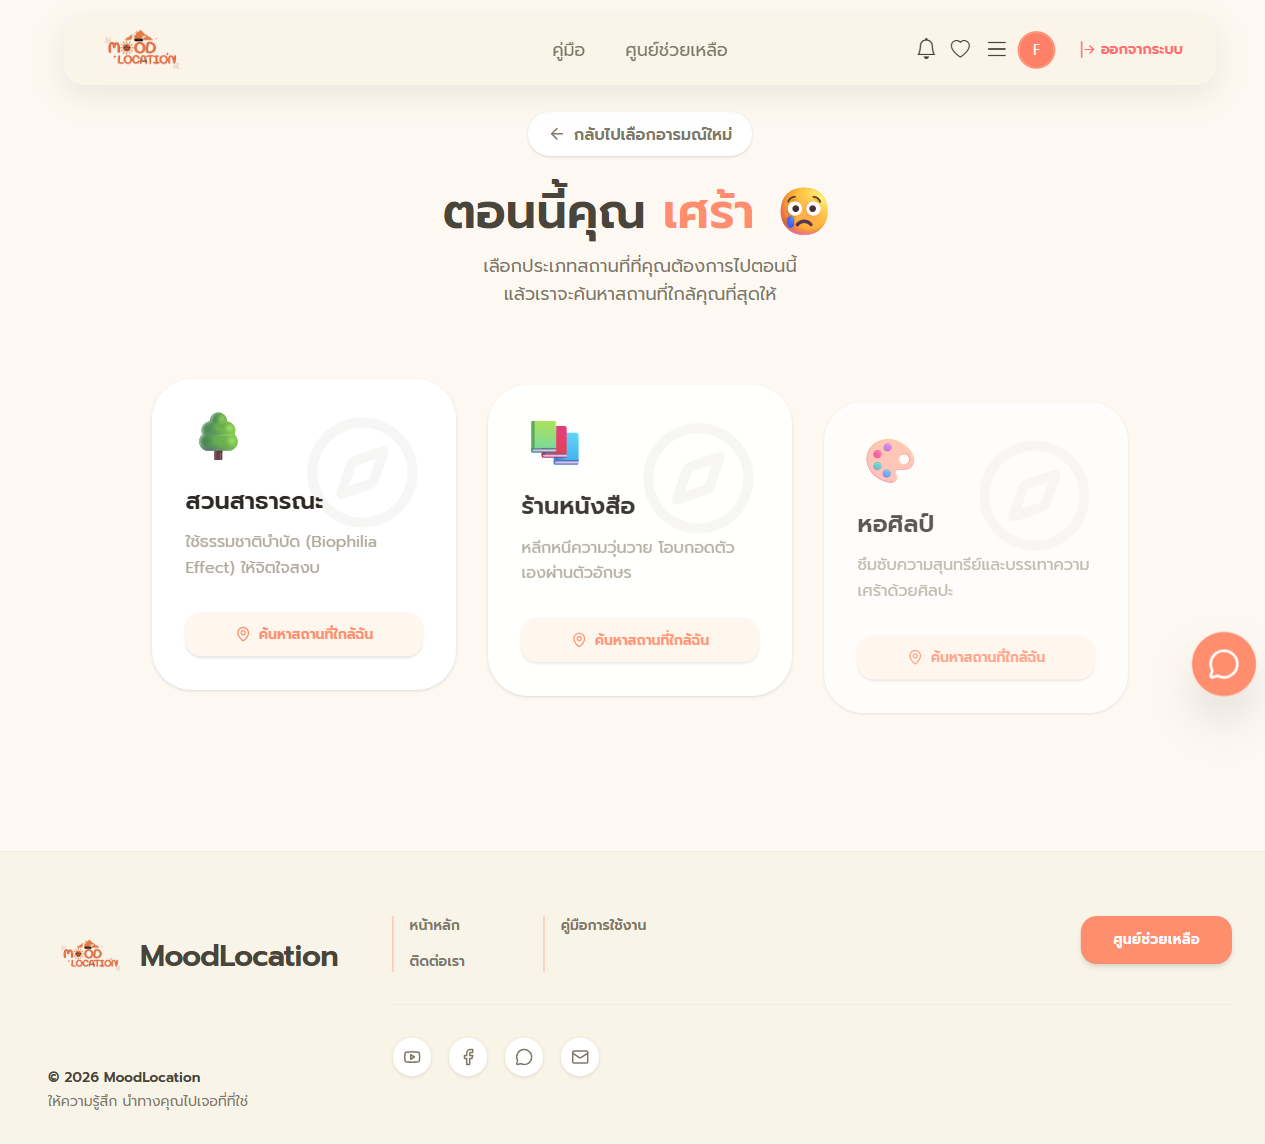
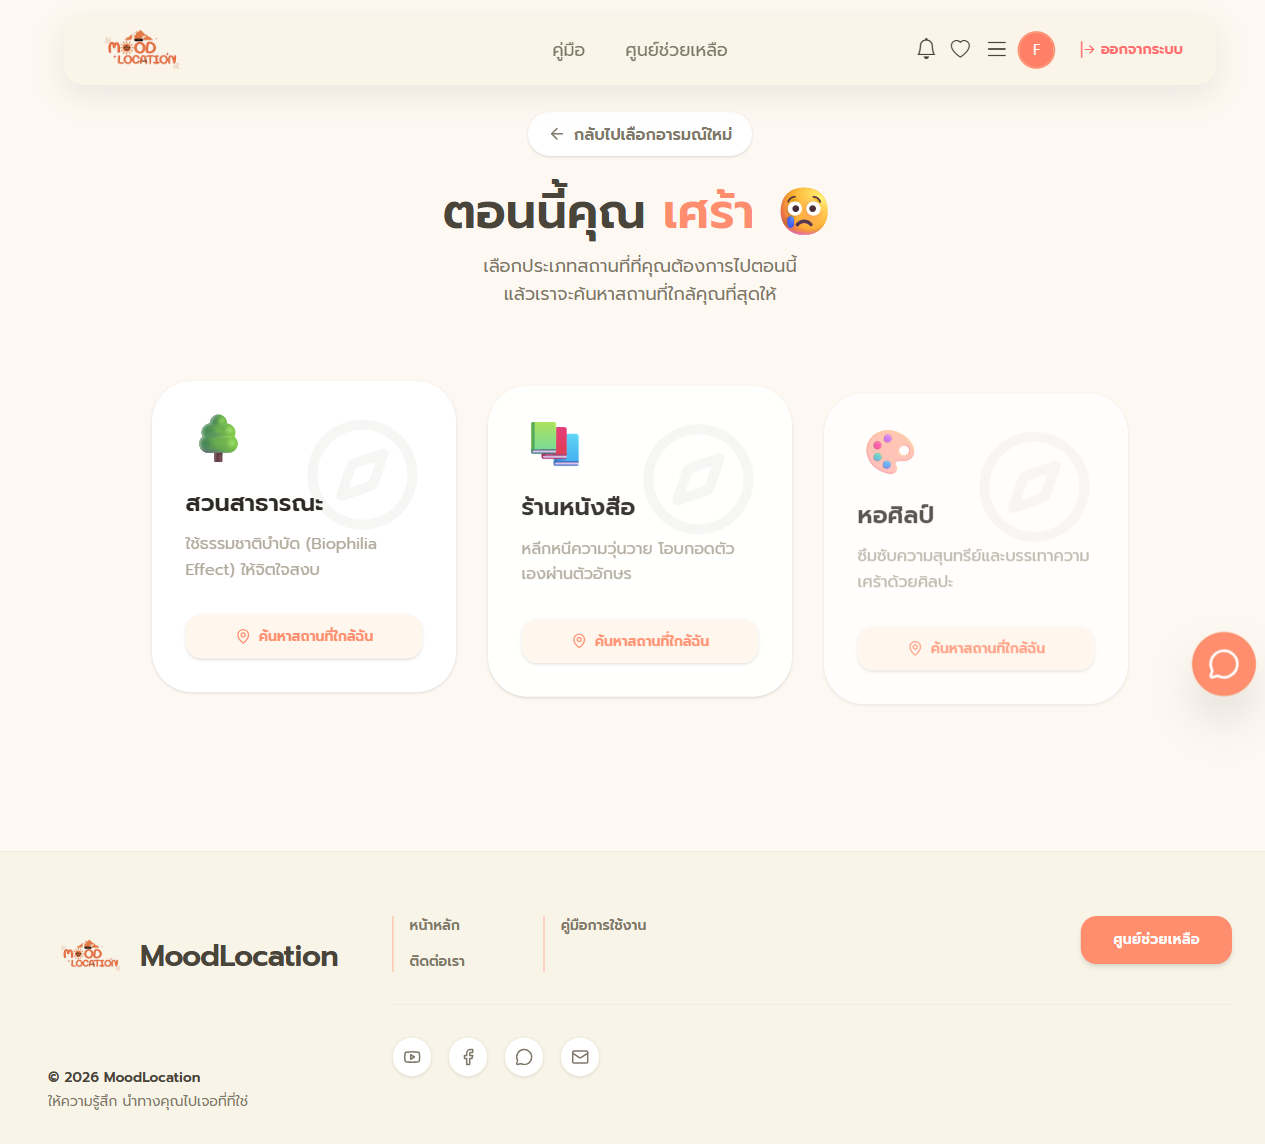
testTC2andTC6

diff --git a/src/tests/TC_6_0_002_NavigationClickSuccess.spec.js b/src/tests/TC_6_0_002_NavigationClickSuccess.spec.js
@@ -1,0 +1,70 @@
+require('../Hooks/testResultHook');
+const { test, expect } = require('@playwright/test');
+
+test('TC 6.0.002 - เริ่มการนำทางไปยังสถานที่สำเร็จ', async ({ browser }) => {
+  const context = await browser.newContext({
+    permissions: ['geolocation'],
+    geolocation: { latitude: 13.7563, longitude: 100.5018 },
+  });
+
+  const page = await context.newPage();
+
+  await page.goto('https://moodlocation.vercel.app/login');
+
+  await page.getByPlaceholder('[email redacted]').fill('[email redacted]');
+  await page.locator('input[type="password"]').fill('111111');
+  await page.click('button[type="submit"]');
+
+  await page.waitForLoadState('networkidle');
+
+  const emotionBtn = page.locator('button')
+    .filter({ hasText: 'เศร้า' })
+    .filter({ visible: true })
+    .first();
+
+  await emotionBtn.waitFor({ state: 'visible' });
+  await emotionBtn.click();
+
+  const categoryBtn = page.getByRole('heading', { name: 'สวนสาธารณะ' });
+
+  await categoryBtn.waitFor({ state: 'visible', timeout: 15000 });
+  await categoryBtn.click();
+
+  const viewButton = page.getByRole('button', { name: 'ดูรูปภาพและรีวิว' }).first();
+
+ await viewButton.waitFor({ state: 'visible', timeout: 20000 });
+await viewButton.click();
+
+// รอให้ชื่อสถานที่โหลดเสร็จ
+await expect(page.locator('main h1')).not.toHaveText('กำลังโหลดข้อมูลร้าน...');
+
+// เก็บชื่อสถานที่
+const placeName = (
+  await page.locator('main h1').textContent()
+)?.trim();
+
+// กดปุ่มนำทางและรอแท็บใหม่
+const navigationButton = page.getByRole('button', {
+  name: 'เริ่มการนำทางไปที่นี่'
+});
+
+const [mapsPage] = await Promise.all([
+  context.waitForEvent('page'),
+  navigationButton.click()
+]);
+
+await mapsPage.waitForLoadState();
+
+// ตรวจสอบว่าเปิด Google Maps
+await expect(mapsPage).toHaveURL(/google\.[^/]+\/maps|maps/i);
+
+// ตรวจสอบว่าชื่อสถานที่ตรงกับหน้าเว็บ
+await expect(mapsPage).toHaveTitle(new RegExp(placeName, 'i'));
+
+  await mapsPage.screenshot({
+    path: 'evidence/TC_6_0_002_NavigationSuccess.png',
+    fullPage: true
+  });
+
+  await context.close();
+});

diff --git a/src/tests/TC_6_0_001_PlaceDetail.spec.js b/src/tests/TC_6_0_001_PlaceDetail.spec.js
@@ -1,24 +1,54 @@
 require('../Hooks/testResultHook');
 const { test, expect } = require('@playwright/test');
 
-test('TC 6.0.001 - การแสดงรายละเอียดสถานที่สำเร็จ', async ({ page }) => {
+test('TC 6.0.001 - ดูรายละเอียดสถานที่สำเร็จ', async ({ browser }) => {
+  const context = await browser.newContext({
+    permissions: ['geolocation'],
+    geolocation: { latitude: 13.7563, longitude: 100.5018 },
+  });
+
+  const page = await context.newPage();
+
   await page.goto('https://moodlocation.vercel.app/login');
+
   await page.getByPlaceholder('[email redacted]').fill('[email redacted]');
   await page.locator('input[type="password"]').fill('111111');
   await page.click('button[type="submit"]');
+
+  // รอข้อมูลโหลดเสร็จก่อนเริ่มทดสอบ
   await page.waitForLoadState('networkidle');
 
-  // 1. เลือกอารมณ์และหมวดหมู่เพื่อให้เจอรายการสถานที่
-  await page.locator('button').filter({ hasText: 'มีความสุข' }).filter({ visible: true }).first().click();
-  await page.locator('button').filter({ hasText: /เที่ยว|สวน/ }).filter({ visible: true }).first().click();
+  const emotionBtn = page.locator('button')
+    .filter({ hasText: 'เศร้า' })
+    .filter({ visible: true })
+    .first();
 
-  // 2. เลือกสถานที่ (เช่น วัดพระแก้ว ตามที่ระบุใน PDF)
-  const placeCard = page.locator('div, h2').filter({ hasText: 'วัดพระแก้ว' }).first();
-  await placeCard.click();
+  await emotionBtn.waitFor({ state: 'visible' });
+  await emotionBtn.click();
 
-  // 3. ตรวจสอบว่าแสดงรายละเอียด (รูปภาพ, ข้อมูล, รีวิว)
-  await expect(page.locator('body')).toContainText(/รายละเอียด|รีวิว/);
-  
-  // 4. ถ่ายรูปหลักฐาน
-  await page.screenshot({ path: 'evidence/TC_6_0_001_PlaceDetail.png', fullPage: true });
+  const categoryBtn = page.getByRole('heading', { name: 'สวนสาธารณะ' });
+
+  await categoryBtn.waitFor({ state: 'visible', timeout: 15000 });
+  await categoryBtn.click();
+
+  const viewButton = page.getByRole('button', { name: 'ดูรูปภาพและรีวิว' }).first();
+
+  await viewButton.waitFor({ state: 'visible', timeout: 20000 });
+  await viewButton.click();
+
+  // ตรวจสอบว่าเข้าสู่หน้ารายละเอียดสถานที่สำเร็จ
+  const navigationBtn = page.getByRole('button', { name: 'นำทาง' });
+
+  await expect(navigationBtn).toBeVisible({ timeout: 15000 });
+
+  await page.evaluate(() => {
+    window.scrollTo(0, 0);
+  });
+
+  await page.screenshot({
+    path: 'evidence/TC_6_0_001_ViewPlaceDetail.png',
+    fullPage: true
+  });
+
+  await context.close();
 });

diff --git a/src/tests/TC_2_0_004_EmptyEmail.spec.js b/src/tests/TC_2_0_004_EmptyEmail.spec.js
@@ -1,0 +1,19 @@
+require('../Hooks/testResultHook');
+const { test, expect } = require('@playwright/test');
+
+test('TC 2.0.004 - เข้าสู่ระบบไม่สำเร็จเนื่องจากไม่กรอกอีเมล', async ({ page }) => {
+  await page.goto('https://moodlocation.vercel.app/login');
+  await page.locator('input[type="password"]').fill('111111');
+  await page.click('button[type="submit"]');
+
+const emailInput = page.getByPlaceholder('[email redacted]');
+
+await expect(emailInput).toBeVisible();
+await expect(page.getByText('กรุณากรอกอีเมล')).toBeVisible();
+  
+
+  await page.screenshot({
+  path: 'evidence/TC_2_0_004_EmptyEmail.png',
+  fullPage: true
+});
+});

diff --git a/src/tests/TC_2_0_005_EmptyPassword.spec.js b/src/tests/TC_2_0_005_EmptyPassword.spec.js
@@ -1,0 +1,19 @@
+require('../Hooks/testResultHook');
+const { test, expect } = require('@playwright/test');
+
+test('TC 2.0.005 - เข้าสู่ระบบไม่สำเร็จเนื่องจากไม่กรอกรหัสผ่าน', async ({ page }) => {
+  await page.goto('https://moodlocation.vercel.app/login');
+ await page.getByPlaceholder('[email redacted]').fill('[email redacted]');
+  await page.click('button[type="submit"]');
+
+const emailInput = page.getByPlaceholder('[email redacted]');
+
+await expect(emailInput).toBeVisible();
+await expect(page.getByText('กรุณากรอกรหัสผ่าน')).toBeVisible();
+  
+
+  await page.screenshot({
+  path: 'evidence/TC_2_0_005_EmptyPassword.png',
+  fullPage: true
+});
+});

diff --git a/src/tests/TC_2_0_001_LoginSuccess.spec.js b/src/tests/TC_2_0_001_LoginSuccess.spec.js
@@ -1,0 +1,18 @@
+require('../Hooks/testResultHook');
+const { test, expect } = require('@playwright/test');
+
+test('TC 2.0.001 - เข้าสู่ระบบสำเร็จ', async ({ page }) => {
+  await page.goto('https://moodlocation.vercel.app/login');
+  await page.getByPlaceholder('[email redacted]').fill('[email redacted]');
+  await page.locator('input[type="password"]').fill('111111');
+  await page.click('button[type="submit"]');
+
+ const successToast = page.getByText(/เข้าสู่ระบบเรียบร้อยแล้ว|เข้าสู่ระบบแล้ว|/).first();
+  
+  await expect(successToast).toBeVisible({ timeout: 15000 });
+await page.waitForTimeout(1000);
+  await page.screenshot({
+  path: 'evidence/TC_2_0_001_LoginSuccess.png',
+  fullPage: true
+});
+});

diff --git a/src/tests/TC_2_0_002_InvalidEmail.spec.js b/src/tests/TC_2_0_002_InvalidEmail.spec.js
@@ -1,0 +1,18 @@
+require('../Hooks/testResultHook');
+const { test, expect } = require('@playwright/test');
+
+test('TC 2.0.002 - เข้าสู่ระบบไม่สำเร็จอีเมลไม่ถูกต้อง', async ({ page }) => {
+  await page.goto('https://moodlocation.vercel.app/login');
+  await page.getByPlaceholder('[email redacted]').fill('[email redacted]');
+  await page.locator('input[type="password"]').fill('111111');
+  await page.click('button[type="submit"]');
+
+ const successToast = page.getByText(/เข้าสู่ระบบไม่สำเร็จ|เข้าสู่ระบบไม่สำเร็จอีเมลหรือรหัสผ่านไม่ถูกต้อง|/).first();
+  
+  await expect(successToast).toBeVisible({ timeout: 15000 });
+await page.waitForTimeout(1000);
+  await page.screenshot({
+  path: 'evidence/TC_2_0_002_InvalidEmail.png',
+  fullPage: true
+});
+});

diff --git a/src/tests/TC_2_0_003_InvalidPassword.spec.js b/src/tests/TC_2_0_003_InvalidPassword.spec.js
@@ -1,0 +1,18 @@
+require('../Hooks/testResultHook');
+const { test, expect } = require('@playwright/test');
+
+test('TC 2.0.003 - เข้าสู่ระบบไม่สำเร็จรหัสผ่านไม่ถูกต้อง', async ({ page }) => {
+  await page.goto('https://moodlocation.vercel.app/login');
+  await page.getByPlaceholder('[email redacted]').fill('[email redacted]');
+  await page.locator('input[type="password"]').fill('123456');
+  await page.click('button[type="submit"]');
+
+ const successToast = page.getByText(/เข้าสู่ระบบไม่สำเร็จ|เข้าสู่ระบบไม่สำเร็จอีเมลหรือรหัสผ่านไม่ถูกต้อง|/).first();
+  
+  await expect(successToast).toBeVisible({ timeout: 15000 });
+await page.waitForTimeout(1000);
+  await page.screenshot({
+  path: 'evidence/TC_2_0_003_InvalidPassword.png',
+  fullPage: true
+});
+});

diff --git a/googleSheets.js b/googleSheets.js
@@ -1,7 +1,7 @@
 const { google } = require('googleapis');
 
 const SPREADSHEET_ID = '1cpTnHCUrnQb0NAXbcRoowKOV0cyIS4llke4jnuiuHcw';
-const SHEET_NAME = 'Test Scenarios';
+const SHEET_NAME = 'Test Case Document';
 
 async function updateTestResult(testId, result) {
   const auth = new google.auth.GoogleAuth({
@@ -40,11 +40,11 @@ async function updateTestResult(testId, result) {
       valueInputOption: 'RAW',
       data: [
         {
-          range: `${SHEET_NAME}!G${actualRow}`,
+          range: `${SHEET_NAME}!I${actualRow}`,
           values: [[result]],
         },
         {
-          range: `${SHEET_NAME}!I${actualRow}`,
+          range: `${SHEET_NAME}!J${actualRow}`,
           values: [[runDate]],
         },
       ],